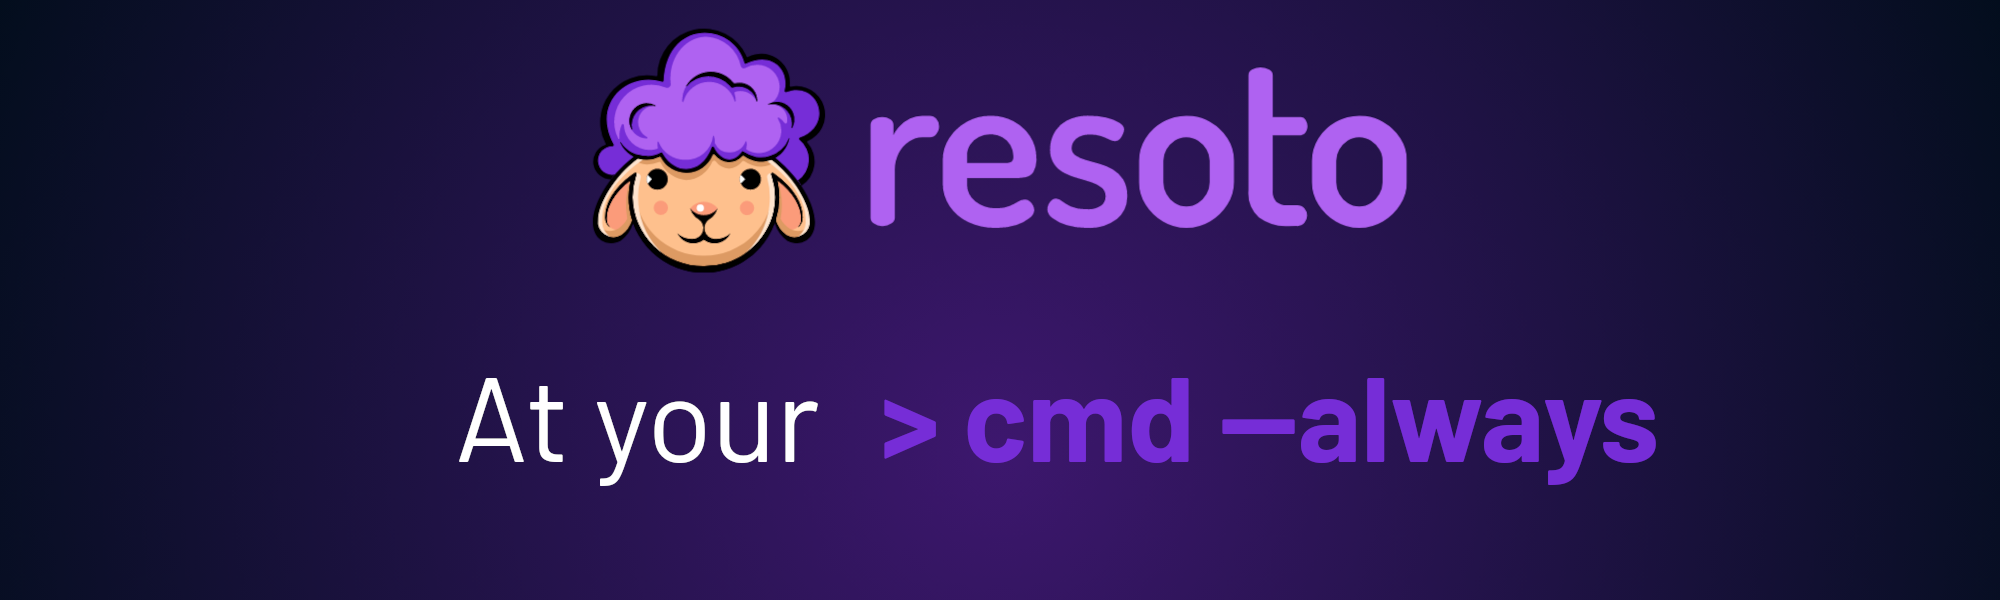
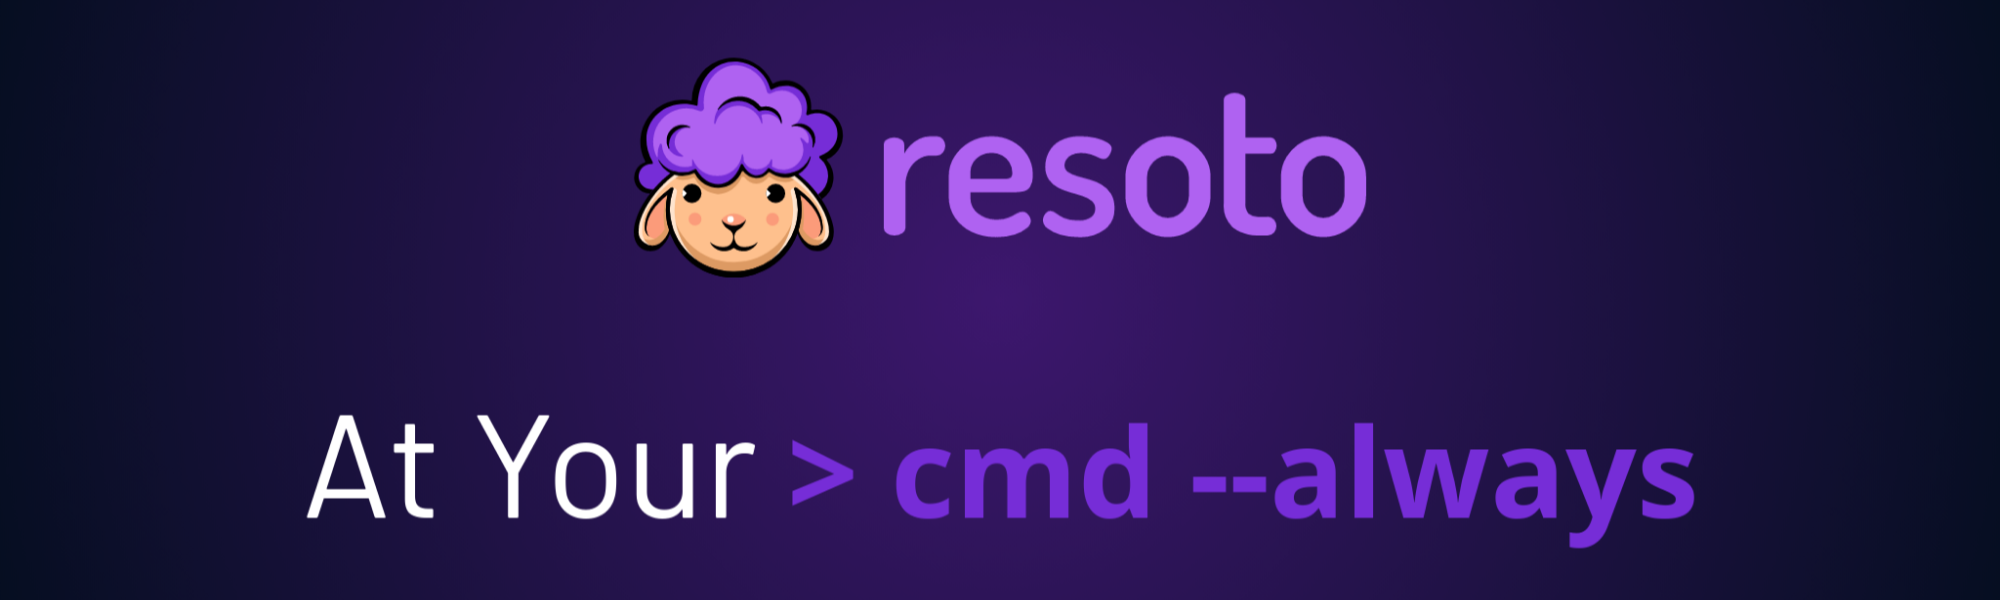
fix(blog): edits

Changed region(s): [[0.155, 0.63, 0.868, 0.93], [0.279, 0.03, 0.713, 0.48]]

diff --git a/blog/2022/12-07-resoto-at-your-command/index.md b/blog/2022/12-07-resoto-at-your-command/index.md
@@ -1,48 +1,62 @@
 ---
 authors: [matthias]
 tags: [cli, command]
-image: ./img/banner-social.png
+image: https://resoto-og-image.vercel.app/At%20Your%3Cbr%2F%3E**%60%3E%20cmd%20--always%60**.png?theme=dark&md=1&fontSize=150px&images=https%3A%2F%2Fcdn.some.engineering%2Fassets%2Fresoto-logos%2Fresoto-logo.svg
 ---
 
-# Resoto - At your command
+# Resoto, at Your Command
 
-An installation of Resoto comes with batteries included: a command-line interface (CLI) with [powerful commands](/docs/reference/cli) that allows for exploration, insights, and manipulation of your infrastructure. With those tools at hand, automating tedious tasks becomes a breeze. Think about enforcing a policy, cleaning up resources, exporting data, or alerting on specific circumstances. See our [How-To](/docs/how-to-guides) section to learn more about possible use cases.
+A Resoto install comes with batteries included; Resoto ships with a [command-line interface (CLI)](/docs/reference/cli) that allows for exploration, insights, and manipulation of your infrastructure. With Resoto's <abbr title="command-line interface">CLI</abbr>, automating tedious tasks becomes a breeze. Think about enforcing a policy, cleaning up resources, exporting data, or alerting on specific circumstances. See [How-To Guides](/docs/how-to-guides) to learn more about possible use cases.
 
-![Banner](./img/banner.png)
+![](./img/banner.png)
 
-Version 3 of Resoto introduces the ability to extend this capability by defining your commands programmatically in the programming language of your choice.
+Version 3 of Resoto introduces the ability to extend this capability by defining your commands programmatically in the language of your choice.
 
 <!--truncate-->
 
-If you are confident using Python, this task becomes super easy, since all the necessary boilerplate code is already provided as part of Resoto. In this blog post, we will implement a new command called `hello-world` in Python, to show the power and flexibility of this new feature. The simple idea of our new command is adding a greeting to the tags of a selected resource.
+If you are familiar with Python, this task becomes super easy, since all the necessary boilerplate code is already provided. In this blog post, we will implement a new command called `hello-world` in Python, to show the power and flexibility of this new feature. The simple idea of our new command is adding a greeting to the tags of a selected resource.
 
-## Architectural overview
+## Architecture
 
-Resoto has a WebSocket endpoint to [attach to the work queue](https://resoto.com/docs/reference/api/web-socket-attach-to-the-working-queue). Multiple workers can register for tasks that are then distributed to the workers. Part of the registration process is a complete definition of the task the worker is able to handle. This definition is used inside Resoto to create a CLI command for this task. When the user executes the command on a given resource, the resource data with a task description is added to the work queue and the worker is notified. The worker can now do whatever it is supposed to do with the provided resource data.
+Resoto has a [WebSocket endpoint to attach to the work queue](/docs/reference/api/web-socket-attach-to-the-working-queue). Multiple workers can register for tasks that are then distributed to the workers. Part of the registration process is a complete definition of the task the worker is able to handle. This definition is used inside Resoto to create a <abbr title="command-line interface">CLI</abbr> command for this task.
 
-![Architectural overview](./img/architectural-overview.svg)
+When the user executes the command on a given resource, the resource data with a task description is added to the work queue and the worker is notified. The worker can now do whatever it is supposed to do with the provided resource data.
+
+![User → Resoto ← Extension](./img/architectural-overview.svg)
 
 A private shared key secures the communication between Resoto and the extension. The permission to handle the resource needs to be implemented in the extension.
 
-## Usage
+## Defining a Command
 
-To demonstrate the power of this feature, we will implement a simple command that adds a greeting to the tags of a resource. We call it `hello-world` because it is a simple command that might be a good starting point for your commands. The idea is to allow the user to select resources via the built-in `search` command and then execute the `hello-world` command on the selected resources.
+The idea behind this feature is to allow the user to select resources via the [`search` command](/docs/reference/cli/search-commands/search) and perform an action on each selected resource:
 
-```shell title="Our hello-world command in action"
+```bash
 > search is(kubernetes_pod) and name~resoto | hello-world
 ```
 
-All resources that got selected by the search command will be passed to the `hello-world` command. Resoto will send a task for every single resource that was selected. All workers registered for the `hello-world` task will receive messages and perform the work. A task can succeed or fail - the result is returned to Resoto and propagated to the user.
+In this example, resources selected by the search command will be passed to the `hello-world` command, with Resoto sending a task for each selected resource. Workers registered for the `hello-world` task will receive the messages and perform the work. The result of each task (success or failure) is then returned to Resoto and propagated to the user.
 
-## Implementation
+### Implementation
 
-For the sake of simplicity, we will use Python as the programming language for the extension. Resoto has facilities for finding, introspecting, activating, and using installed Python extensions using [setuptools](https://setuptools.pypa.io/en/latest/pkg_resources.html). See [available Resoto plugins](https://github.com/someengineering/resoto/tree/main/plugins) for reference.
+Let's implement a `hello-world` command that adds a `greeting` tag to a resource. This simple command can serve as a starting point for defining your own commands.
 
-A simple decorator can expose methods inside a plugin. This decorator collects all the required information about the command and makes it available to Resoto. When a user executes the command, Resoto will send a message to all registered workers, and the runtime will invoke the registered method.
+For the sake of simplicity, we'll use Python—Resoto has facilities for finding, introspecting, activating, and using installed Python extensions using [`setuptools`](https://setuptools.pypa.io/en/latest/pkg_resources.html).
 
-Please note: it is also possible to use your programming language of choice to implement the extension. In this case, you need to implement the communication between Resoto and the extension yourself.
+A simple decorator exposes the methods of a plugin. This decorator collects all the required information about the command and makes it available to Resoto. When a user executes the command, Resoto sends a message to all registered workers, and the runtime invokes the registered method.
 
-To implement the `hello-world` command, we need to define a plugin class and define our method within:
+:::tip
+
+See the [someengineering/resoto GitHub repository](https://github.com/someengineering/resoto/tree/main/plugins) for Resoto plugin examples.
+
+:::
+
+:::note
+
+It is also possible to other programming languages to implement Resoto extensions, but you would need to build the communication layer between Resoto and the extension as well.
+
+:::
+
+We first need to define a plugin class and define our method within:
 
 ```python showLineNumbers
 class MyExtensionsHolder(BasePlugin):
@@ -55,70 +69,83 @@ class MyExtensionsHolder(BasePlugin):
       expect_node_result=True,
   )
   def hello_world(self,
-       config: Config,
-       resource: BaseResource,
-       args: List[str]
+      config: Config,
+      resource: BaseResource,
+      args: List[str]
   ) -> BaseResource:
 
     if resource.update_tag("greeting", "Hello World"):
-       resource.tags["greeting"] = "Hello World"
+      resource.tags["greeting"] = "Hello World"
     return resource
 ```
 
-Let's quickly go through the code step by step:
+| Line | Description |
+| --- | --- |
+| 1 | To make the plugin available to Resoto, we need to define a class that inherits from `BasePlugin`. |
+| 4–7 | The decorator tells Resoto how this method is exposed to the user, defining the command name, description, and arguments. (This information is accessible to users in Resoto Shell via `help hello-world`.) |
+| 8 | We want to see the change in the resource directly reflected in Resoto, so we set the `expect_node_result` flag to `True`. This denotes that we will update the resource in place and return it. |
+| 10 | The function's name can be anything and is not exposed to the user. |
+| 11 | This is the current configuration of the worker. |
+| 12 | This is a single resource. If multiple resources are selected, this method will be invoked for each individual resource. The resource type is defined by the collector. All resources share the same common base class `BaseResource`. |
+| 13 | This is a list of command arguments. In this example, we don't expect any arguments. |
+| 14 | We defined `expect_node_result` to be `True`, which requires that the method returns the updated `BaseResource`. It would also be possible to set this to `False` and return `None` or any other value, which is then propagated to the user as a result. |
+| 16–18 | We use the `update_tag` method to update a tag of the resource, which is an abstract method in `BaseResource` that returns `True` if the tag was added or updated. In this case, we also update the copy and return it. (Resoto ensures this method is implemented for every resource type of each cloud provider.) |
 
-- Line 1: To make the plugin available to Resoto, we need to define a class that inherits from `BasePlugin`.
-- Line 3-8: The decorator tells Resoto how this method is exposed to the user. The name of the command, as well as a description and information about the arguments, can be defined. Please note: inside Resotoshell, you can get online help via `help hello-world`.
-- Line 8: The function can decide to update the given resource in place. We want to see the change in the resource directly reflected in Resoto. For that reason we turn this flag on, update the resource in place, and return it.
-- Line 10: This signature of the method is expected by Resoto. The function's name can be anything and is not exposed to the user.
-- Line 11: This method receives the current configuration of the worker.
-- Line 12: Defines the resource that was selected by the user. This is a single resource. If multiple resources are selected, this method will be invoked multiple times. The type of resource is a specific resource class as defined by the particular collector. All Resources share the same common base class `BaseResource`.
-- Line 13: The arguments that were passed to the command. In this case, we don't expect any arguments.
-- Line 14: We defined `expect_node_result` to be `True`, which requires that the method returns the updated `BaseResource`. It would also be possible to set this to `False` and return `None` or any other value, which is then propagated to the user as a result.
-- Line 16-18: We are using the generic `update_tag` method to update a tag of the resource, which is an abstract method in `BaseResource`. The method returns `True` if the tag was added or updated. In this case, we also update the copy and return it to Resoto. Please note: Resoto makes sure this method is implemented for every resource type for every cloud provider.
+:::info
 
-Once the plugin is loaded, and the worker starts, the command is registered and available to the user. We can check this by executing the `help` command:
+Once the plugin is loaded and the worker starts, the command is registered and available to the user. We can check this by executing the [`help` command](/docs/reference/cli/miscellaneous-commands/help), which lists all available commands:
 
-```shell
+```bash
 > help
 # highlight-start
-
+...
 # Custom Commands
 hello-world - Add a greeting to the tags of a resource.
-
-... other commands removed ...
+...
 # highlight-end
 ```
 
-We can get more information about the command by executing `help hello-world`:
+We can view information about the command by executing `help hello-world`:
 
-```shell
+```bash
 > help hello-world
 # highlight-start
 hello-world: Add a greeting to the tags of a resource.
-
+
 hello-world
-
+
 Long description of the command.
 # highlight-end
 ```
 
-We should have paid more attention to documenting the behavior of our command. The help description is not helpful as such. Custom commands allow defining the description using Markdown syntax while describing every argument in detail. You can see a complete example of a custom command in the [Resoto GitHub Repository](https://github.com/someengineering/resoto/blob/main/plugins/aws/resoto_plugin_aws/__init__.py#L156).
+As you can see, the description is lacking in information and thus not very helpful.
 
-## Experimenting with the new command
+[Markdown](https://daringfireball.net/projects/markdown) syntax is allowed in custom command descriptions, making it easy to clearly document arguments, examples, and other useful information.
 
-The Unix idea of small tools that do one thing well is excellent. We can combine the `search` command with the `hello-world` command to add a greeting to all resources that match a particular criterion.
+:::
 
-```shell
+:::tip
+
+See a complete example of a custom command in the [Resoto GitHub Repository](https://github.com/someengineering/resoto/blob/1fc68807056e0d27dff9ec25053df3bcbc6d6948/plugins/aws/resoto_plugin_aws/__init__.py#L115-L229).
+
+:::
+
+### Usage
+
+We can now combine the [`search` command](/docs/reference/cli/search-commands/search) with our new `hello-world` command to add a `greeting` tag to all resources that match a particular criterion:
+
+```bash
 > search is(instance) and age<1h | hello-world
 # highlight-start
 kind=aws_ec2_instance, id=i07b, name=ekt, instance_status=running, age=34min, cloud=aws, account=someengineering, region=eu-central-1
 # highlight-end
 ```
 
-This command line will search for compute instances that are younger than one hour and add a greeting to the tags of matching resources. The `hello-world` command returns the updated resource, making it possible to process the result further. For example, we can select the tags property of the resource using the `jq` command. The result would be a list of all tags for every resource that was updated. We can see our greeting tag in the list and other existing tags.
+This above command searches for compute instances with age less than one hour, and add a `greeting` tag to each matching resource.
 
-```shell
+**Additionally, the `hello-world` command returns the updated resource, making it possible to process the result further.** For example, we can select the tags property of the resource using the `jq` command. The result would be a list of all tags for every resource that was updated. We can see our greeting tag in the list and other existing tags.
+
+```bash
 > search is(instance) and age<1h | hello-world | jq .tags
 # highlight-start
 costCenter: bus
@@ -127,9 +154,11 @@ This command line will search for compute instances that are younger than one ho
 # highlight-end
 ```
 
-It is possible to pass arguments to the `hello-world` command. The arguments passed to the command will be available in the `args` parameter of the method. In our simple implementation, we are currently ignoring the arguments - but it would be possible to parameterize our function and make it even more helpful. Consider having a greeting parameter where we can define the greeting that is added to the tags of the resource. I am leaving out the implementation details since it is super trivial to do.
+**It is possible to pass arguments to the `hello-world` command.** Arguments are available via the `args` parameter. In the above example, we ignore the `args` parameter as we don't expect any arguments; however, it would be possible to parameterize our function to make it more useful.
 
-```shell
+Consider the addition of a `--greet` parameter where we can define the text that is added to the `greeting` tag:
+
+```bash
 > search is(aws_ec2_instance) and age<1h | hello-world --greet "Hi there" | jq .tags
 # highlight-start
 costCenter: bus
@@ -138,9 +167,11 @@ It is possible to pass arguments to the `hello-world` command. The arguments pas
 # highlight-end
 ```
 
-Another option that Resoto provides is parameter expansion. The value of a command parameter does not have to be static but could come from the resource's data to process. Let's assume every resource has an `owner` tag. We could define a greeting specific to the resources owner:
+**Resoto also supports parameter expansion.** The value of a command parameter does not have to be static, but could come from resource data.
 
-```shell
+Assuming every resource has an `owner` tag, we could define a greeting specific to the resources owner:
+
+```bash
 > search is(aws_ec2_instance) and age<1h | hello-world --greet "Hi {tags.owner}" | jq .tags
 # highlight-start
 costCenter: bus
@@ -149,15 +180,29 @@ Another option that Resoto provides is parameter expansion. The value of a comma
 # highlight-end
 ```
 
-The placeholder does not need to come from the tags but could come from any resource property. See [format](/docs/reference/cli/format-commands/format) for a more detailed description of placeholder value handling. A short summary: a property path inside curly braces will be replaced by the value of the property of the incoming resource. The string `Hi {tags.owner}` will be replaced by `Hi Maricel` if the resource has a tag `owner` with the value `Maricel`. This can be quite powerful and allows you to create expressive commands to process resources flexibly.
+The placeholder could come from any resource property. Property paths inside curly braces are replaced with values from the incoming resource. The string `Hi {tags.owner}` will be replaced by `Hi Maricel` if the resource has a tag `owner` with value `Maricel`. This can be quite powerful and allows you to create expressive commands to process resources flexibly.
 
-## The `aws` command line tool
+:::tip
 
-AWS provides a command line tool that allows interaction with every possible AWS resource. We thought it would be great to have the same power inside Resoto and decided to provide a custom command called `aws` with almost the same interface as the official AWS CLI tool. It allows selecting resources via `search` and piping them into the `aws` command line tool to get specific information or manipulate resources. You can find the implementation of the `aws` command in the [Resoto GitHub Repository](https://github.com/someengineering/resoto/blob/main/plugins/aws/resoto_plugin_aws/__init__.py#L156).
+See [`format`](/docs/reference/cli/format-commands/format) for details of placeholder value handling.
 
-If you have set up your [AWS collector](/docs/getting-started/configure-cloud-provider-access/aws) you can use the `aws` command to see the configured identity using [`get-caller-identity`](https://docs.aws.amazon.com/cli/latest/reference/sts/get-caller-identity.html):
+:::
 
-```shell
+## The `aws` Command
+
+<abbr title="Amazon Web Services">AWS</abbr> provides a command-line utility that facilitates interactions with <abbr title="Amazon Web Services">AWS</abbr> resources.
+
+**We thought it would be great to have the same power inside Resoto and added an `aws` command with almost the same interface as the official <abbr title="Amazon Web Services">AWS</abbr> <abbr title="command-line interface">CLI</abbr> tool.** It allows selecting resources via `search` and piping them into the `aws` command line tool to get specific information or manipulate resources.
+
+:::info
+
+You can find the implementation of the `aws` command in the [someengineering/resoto GitHub repository](https://github.com/someengineering/resoto/blob/1fc68807056e0d27dff9ec25053df3bcbc6d6948/plugins/aws/resoto_plugin_aws/__init__.py#L115-L229).
+
+:::
+
+If you have [configured collection of your <abbr title="Amazon Web Services">AWS</abbr> resources](/docs/getting-started/configure-cloud-provider-access/aws), you can use the `aws` command to see the configured identity using [`get-caller-identity`](https://docs.aws.amazon.com/cli/latest/reference/sts/get-caller-identity.html):
+
+```bash
 > aws sts get-caller-identity
 # highlight-start
 UserId: AIDA42373XXXXXXXXXXXX
@@ -166,31 +211,33 @@ If you have set up your [AWS collector](/docs/getting-started/configure-cloud-pr
 # highlight-end
 ```
 
-Let's do something more interesting with our `aws` command. We assume that some development accounts with many ec2 instances are idle during the weekend. We want to automatically stop all running ec2 instances in our dev accounts on Friday EOB and start them again on Monday morning.
+Let's try something more interesting with the `aws` command. Consider the case where some development accounts with many EC2 instances are idle during weekends, and we want to automatically stop all running EC2 instances in dev accounts at Friday <abbr title="end of business">EOB</abbr> and restart them on Monday morning.
 
-The command to stop running instances would look like this using the [`stop-instances`](https://docs.aws.amazon.com/cli/latest/reference/ec2/stop-instances.html) command:
+The command to stop running instances would use the [`stop-instances` command](https://docs.aws.amazon.com/cli/latest/reference/ec2/stop-instances.html):
 
-```shell
+```bash
 > search is(aws_ec2_instance) and
          instance_status=running and
          /ancestors.account.reported.name~dev |
   aws ec2 stop-instances --instance-ids {id}
 ```
 
-We select all running ec2 instances in all accounts that have `dev` in their name. The selected instances are piped into the `aws` command, which will execute the `stop-instances` command with the `instance-ids` parameter set to the resource's id. Based on the resource, Resoto will pick the correct credentials and region to execute the command. This is also why we will only pass one id per call, while the `stop-instances` call theoretically allows defining multiple instance ids.
+We first select all running EC2 instances in all accounts that have `dev` in their name. Selected instances are piped to the `aws` command, which executes the `stop-instances` command with the `--instance-ids` parameter set to the resource's ID.
 
-To start all stopped instances again, we can use the [`start-instances`](https://docs.aws.amazon.com/cli/latest/reference/ec2/start-instances.html) command:
+Based on the resource, Resoto will pick the correct credentials and region to execute the command. (This is why we will only pass one ID per call, though the `stop-instances` call theoretically allows defining multiple instance IDs.)
 
-```shell
+To start all stopped instances again, we use the [`start-instances` command](https://docs.aws.amazon.com/cli/latest/reference/ec2/start-instances.html):
+
+```bash
 > search is(aws_ec2_instance) and
          instance_status=stopped and
          /ancestors.account.reported.name~dev |
   aws ec2 start-instances --instance-ids {id}
 ```
 
-To automate the two actions we can create jobs with a cron trigger, that are executed by Resoto automatically. We will schedule one job to run on Friday EOB and the other on Monday morning.
+To automate these two actions, we can create jobs with a cron trigger. We schedule one job to run on Friday evening, and the other on Monday morning.
 
-```shell
+```bash
 > jobs add --id tgif --schedule "0 22 * * 5" 'search ... | aws ec2 stop-instances ...'
 # highlight-start
 Job tgif added.
@@ -203,5 +250,6 @@ To automate the two actions we can create jobs with a cron trigger, that are exe
 
 ## Conclusion
 
-Ideally, Resoto already brings all the power you need to manage your cloud infrastructure. In case you find yourself in a situation, where you need to do something that is not possible with the built-in commands, you can always extend Resoto and write your own custom command. The nature of the Resoto shell command line approach using pipes and filters allows for simple extensions that can be combined to solve the most complex problems.  
-As we have seen in this article, it is straightforward to write a custom command and extend Resoto to fit your needs.
+Resoto provides a multitude of tools to help you manage your cloud infrastructure. But, if you find yourself in a situation where you need to do something that is not possible with Resoto's built-in commands, you can always extend Resoto and write your own custom command.
+
+The nature of the Resoto Shell's command-line approach using pipes and filters allows for simple extensions that can be combined to solve even the most complex problems.
